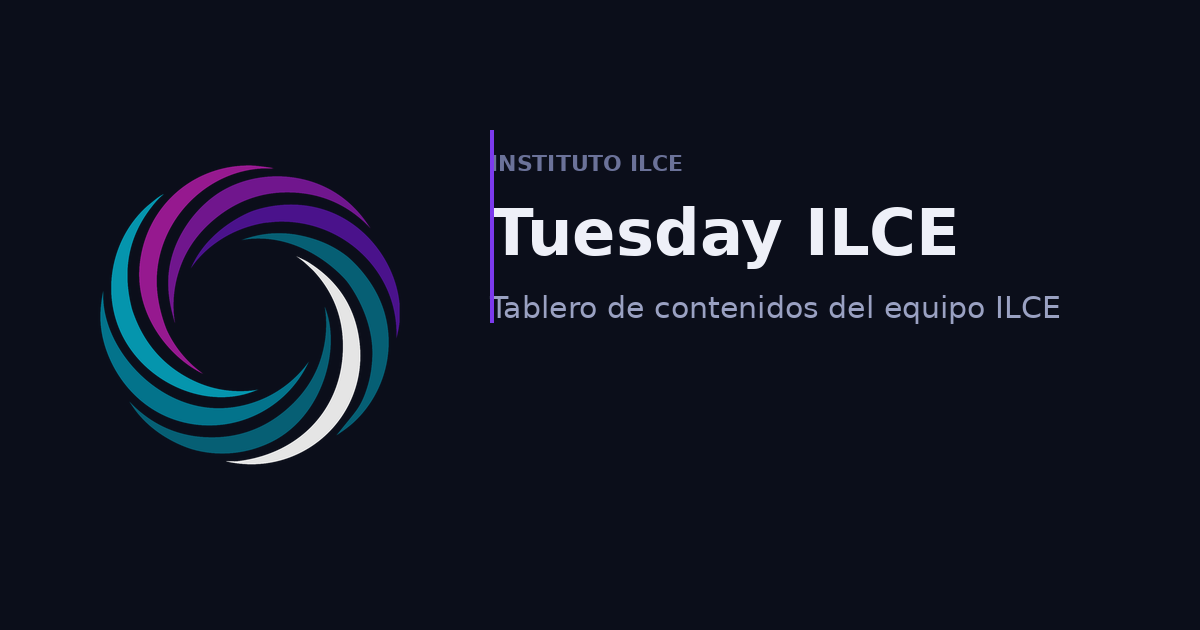
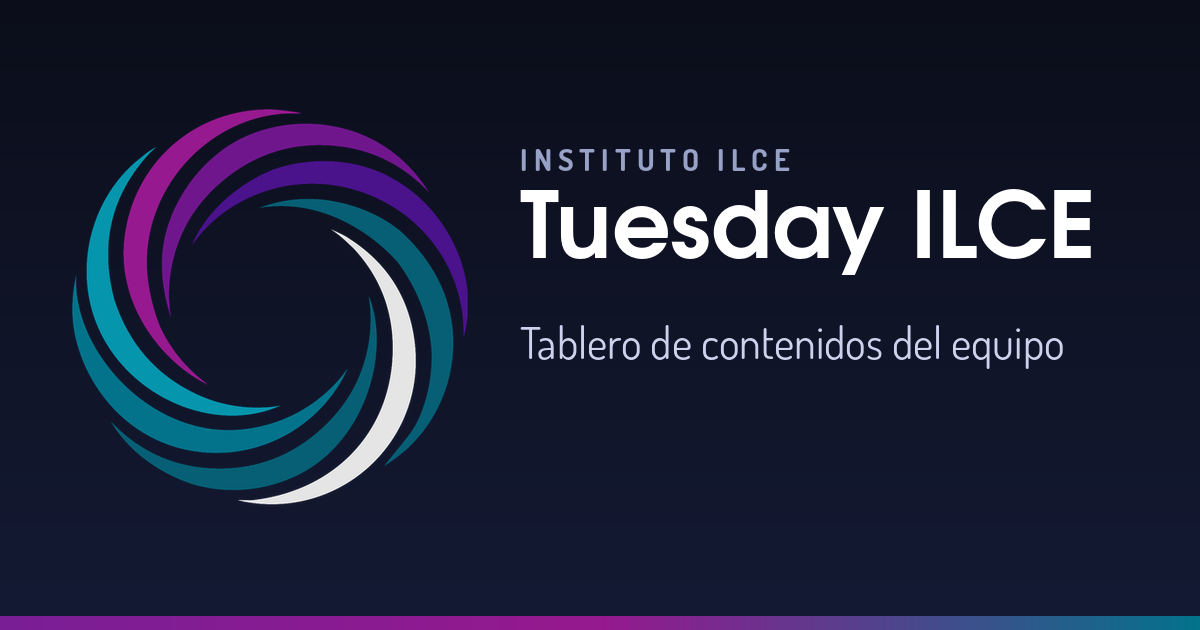
0.15.0: vista previa de enlace (Open Graph y Twitter card) con imagen de ILCE para WhatsApp, Slack y Telegram

Changed region(s): [[0.0617, 0.1508, 0.925, 0.8143], [0.0, 0.9349, 1.0, 1.0]]

diff --git a/app/layout.js b/app/layout.js
@@ -20,15 +20,19 @@ export const metadata = {
     apple: '/apple-touch-icon.png?v=2'
   },
   openGraph: {
+    type: 'website',
+    locale: 'es_AR',
+    siteName: 'Instituto ILCE',
     title: 'Tuesday ILCE',
     description: 'Tablero de contenidos del equipo ILCE',
-    images: ['/og-image.png']
+    url: '/',
+    images: [{ url: '/og-image.png?v=1', width: 1200, height: 630, alt: 'Tuesday ILCE — Instituto ILCE' }]
   },
   twitter: {
     card: 'summary_large_image',
     title: 'Tuesday ILCE',
     description: 'Tablero de contenidos del equipo ILCE',
-    images: ['/og-image.png']
+    images: ['/og-image.png?v=1']
   }
 };
 

diff --git a/lib/changelog.js b/lib/changelog.js
@@ -2,6 +2,14 @@
 // Lo más nuevo va primero. Se muestra al hacer clic en el badge de versión.
 export const CHANGELOG = [
   {
+    version: '0.15.0',
+    fecha: '2026-10-05',
+    cambios: [
+      'Vista previa de enlace: ahora, cuando alguien comparte un enlace de la app por WhatsApp, Slack o Telegram, se ve una tarjeta con el título, una descripción y una imagen de ILCE, en lugar de mostrar solo el dominio. (se renueva la imagen para que sea igual a la de las demás apps).',
+      'No se cambió ningún dato, flujo ni cálculo existente.'
+    ]
+  },
+  {
     version: '0.14.3',
     fecha: '2026-10-05',
     cambios: [

diff --git a/lib/version.js b/lib/version.js
@@ -1,3 +1,3 @@
 // Actualizar estos dos valores cada vez que se sube código nuevo.
-export const APP_VERSION = '0.14.3';
+export const APP_VERSION = '0.15.0';
 export const APP_UPDATED_AT = '2026-10-05'; // formato YYYY-MM-DD
